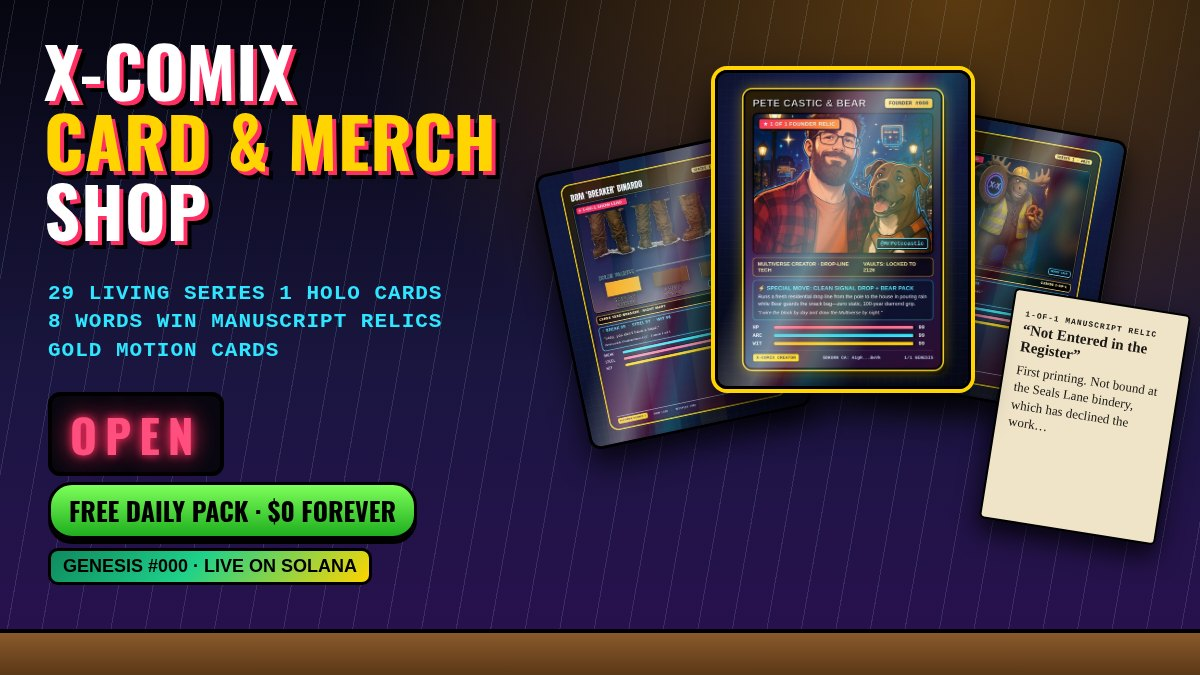
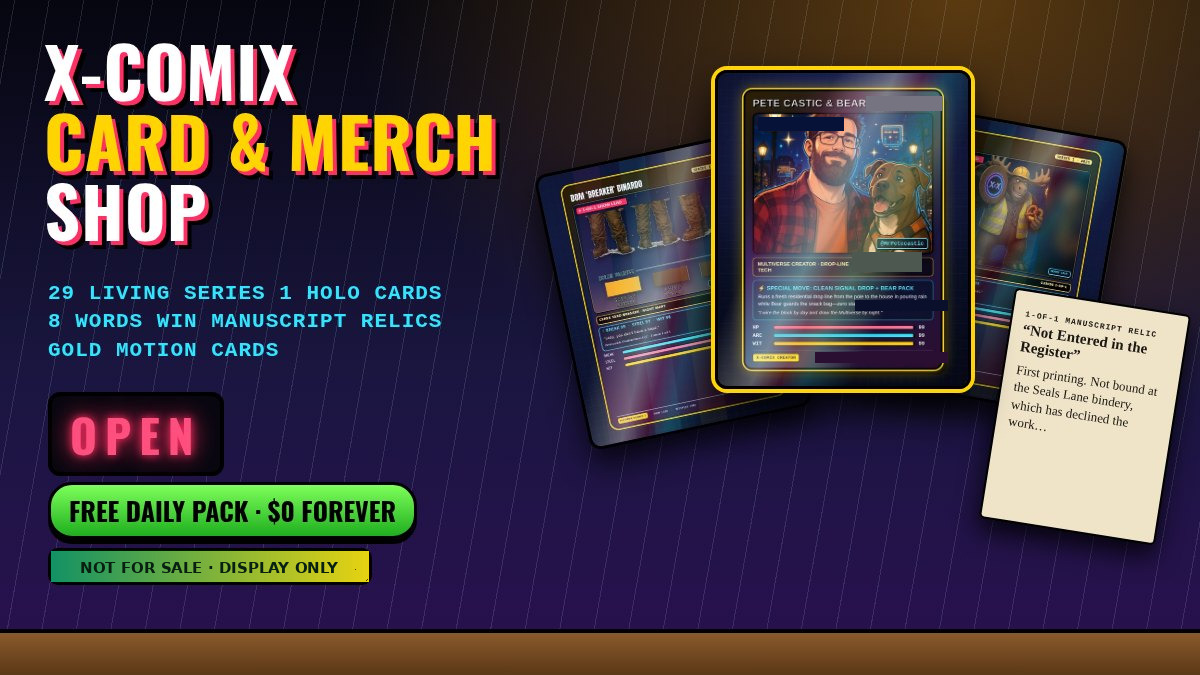
Show Pete & Bear and Founder #000 as display-only art.
Both portraits stay visible to everyone. The holder gate, Demo Preview blur, mint link, wishlist, and edition lines are gone, and each one is labeled not for sale.

diff --git a/shop/backroom.js b/shop/backroom.js
@@ -1,7 +1,7 @@
 /* X-Comix Crew Backroom — /shop/ add-on
    Petecastic Productions LLC · READ-ONLY BY DESIGN
-   - Crew poster, dossier, sky shimmer, and lore poll are open to everyone.
-   - The Founder #000 poster keeps the original holder gate: $DKORN, Founder #000, or $UFD, plus Demo Preview.
+   - Crew poster, Founder #000 poster, dossier, sky shimmer, and lore poll are open to everyone.
+   - The Founder #000 poster and the Pete & Bear portrait are display-only art.
    - Never builds, signs, or sends a transaction. Never asks for a seed phrase or private key.
    - An optional check reads a PUBLIC address and asks public Solana RPC for balances.
    - Optional free signMessage (plain text, not a transaction) for the Lore Poll vote proof.
@@ -11,11 +11,9 @@
 (function () {
 'use strict';
 var DKORN = 'A1gRAicaLnYRmKQwRbQCaEEp6iYfu5q5X5gTFAPBeVk';       // Token-2022 (verified on-chain 2026-11-06)
-var FOUNDER = '2gMmnUrxeRkZLA47NyKSGBs1aPFVSfEWruwyTKo7UUyH';     // Token-2022 1-of-1
 var UFD = 'eL5fUxj2J4CiQsmW85k5FG9DvuQjjUoBHoQBi2Kpump';          // classic SPL — Duster Herd Guest Pass
 var T22 = 'TokenzQdBNbLqP5VEhdkAS6EPFLC1PHnBqCXEpPxuEb';
 var TOKENKEG = 'TokenkegQfeZyiNwAJbNbGKPFXCWuBvf9Ss623VQ5DA';     // SPL Token program
-var XCOMIX_NFTS = [FOUNDER];                                       // add future X-Comix 1-of-1 mints here
 var CREATOR = '631dUrPhrXGXJJ38BQGubuCuj5s18HnpxssH8c1D8Q8C';
 var SALUTE = 'Independent community crossover salute by Petecastic Productions LLC for $UFD (eL5fUx…pump) holders — not affiliated with, sponsored, or endorsed by UFD Holdings LLC or @BasementRon. Free comic & art perks only; zero financial or price promises.';
 var SKY_LINE = '✨ Rainbow Stardust Sky Active — Good Attracts Good · Circuit 13 Salutes the Basement';
@@ -25,11 +23,8 @@ var INDEX_BLOCK = { 'https://solana-rpc.publicnode.com': 1, 'https://api.mainnet
 /* Permanent Irys/Arweave storage — uploaded Nov 6, 2026. gateway.irys.xyz serves now; arweave.net mirrors resolve once Irys seeds to Arweave. */
 var IRYS = 'https://gateway.irys.xyz/', AR = 'https://arweave.net/';
 var ARWEAVE = {
- card: { label: 'Founder #000 Card', id: 'FspqroSA4CeC5E9u4UVEZ4a96vZT9o9MCmgGxqnzr5FA', ar: '3QjAw6wuc9dri0AMcoQIsr-8egwX_M--G7k-q1c1iZ0' },
- pfp: { label: '1:1 PFP', id: 'JA7L7yr71HwUNJCubL95W7i1YZNgrPWR9933ovmPPw3Q', ar: '_uwP30E1VDsdk4KVyZShw-OpLRsymlb_mJOE4_YzILM' },
  sheet: { label: 'Turnaround Sheet', id: 'HVxic1sz2G8sqy9mxc7jXjKbiSBedborupmVKgDHwjws', ar: '9SZA0-0ANiSWA5Km1Tu5jrXKrCTZxxCSDHfyUPEqPgY' },
- logo: { label: '$DKORN Logo', id: '2xTVAk9GyqELyyopKmhgxS2Z7852F1opq4KT7GoCgaSq', ar: 'HRCUL5eqQ1zuUqXdlWmn7Oeq7Ylr2TpPapoYTQ0nLMY' },
- metadata: { label: 'Founder #000 Metadata JSON', id: 'E7usJT5d7djuQwvoWgU9BwHszXzGYdvCyQyJyEHDQZJu', ar: 'wu0xLRSKQ-136u0Ff88Q9LMdPZl-l6fmfzFRqYHuAyY' }
+ logo: { label: '$DKORN Logo', id: '2xTVAk9GyqELyyopKmhgxS2Z7852F1opq4KT7GoCgaSq', ar: 'HRCUL5eqQ1zuUqXdlWmn7Oeq7Ylr2TpPapoYTQ0nLMY' }
 };
 var LOCKS = [
  ['Vault 1 · 10-Year Book Saga Lock', 'ubsQ1M34RdLFwDgydiRRTctpvYKeYCF76weWk7QfUVa'],
@@ -100,24 +95,21 @@ function connect(name) {
 }
 function lookup(addr, via) {
   st.addr = addr; st.via = via; st.demo = false; st.loading = true; st.err = null; render();
-  return Promise.all([balanceOf(addr, DKORN, T22), balanceOf(addr, FOUNDER, T22), balanceOf(addr, UFD, TOKENKEG)])
+  return Promise.all([balanceOf(addr, DKORN, T22), balanceOf(addr, UFD, TOKENKEG)])
     .then(function (r) {
-      st.dkorn = r[0]; st.founder = r[1]; st.ufd = r[2];
-      st.nfts = XCOMIX_NFTS.filter(function (m) { return m === FOUNDER ? st.founder > 0 : false; });
+      st.dkorn = r[0]; st.founder = 0; st.ufd = r[1];
+      st.nfts = [];
       st.loading = false;
       try { localStorage.setItem('xcb-last', JSON.stringify({ addr: addr, via: via, at: Date.now() })); } catch (e) {}
       render();
     }).catch(function (e) { st.loading = false; st.err = e.message; render(); });
 }
-function isCircuit() { return (st.dkorn > 0) || (st.founder > 0) || st.nfts.length > 0; }
-function isHolder() { return st.demo || isCircuit() || (st.ufd > 0); }
-
 /* ---------- Lore poll: free signMessage (plain text, not a transaction) ---------- */
 function vote(opt) {
   var p = (providers()[0] || [])[1];
   var msg = 'X-Comix Lore Poll ' + POLL.id + '\nVote: ' + opt + '\nWallet: ' + st.addr + '\nTime: ' + new Date().toISOString() + '\nThis is a free signature. It is not a transaction and moves no funds.';
   var rec = { poll: POLL.id, vote: opt, addr: st.addr, msg: msg, sig: null };
-  if (!p || !p.signMessage || st.demo) { rec.sig = st.demo ? 'demo-preview' : 'unsigned (pasted address)'; save(rec); return; }
+  if (!p || !p.signMessage) { rec.sig = 'unsigned (pasted address)'; save(rec); return; }
   Promise.resolve(p.signMessage(new TextEncoder().encode(msg), 'utf8')).then(function (r) {
     var s = r && (r.signature || r); rec.sig = b58(s instanceof Uint8Array ? s : new Uint8Array(s)); save(rec);
   }).catch(function () { st.err = 'Vote signature cancelled — nothing was sent.'; render(); });
@@ -136,7 +128,7 @@ var CSS = '.xcb-ovl{position:fixed;inset:0;z-index:60;background:#05040ce6;displ
  '.xcb h2{margin:0 0 4px;color:#ffcc33;font-size:22px}.xcb h3{margin:16px 0 6px;color:#7ef3ff;font-size:16px}.xcb small,.xcb .m{color:#b8a9d9}' +
  '.xcb button,.xcb .b{background:#2a1f4a;color:#fff;border:1px solid #7ef3ff;border-radius:999px;padding:7px 13px;margin:3px;cursor:pointer;font:inherit;text-decoration:none;display:inline-block}' +
  '.xcb button.g{border-color:#ffcc33;color:#ffcc33}.xcb input{background:#0b0816;color:#fff;border:1px solid #6a5aa8;border-radius:8px;padding:7px;width:min(100%,380px);font:inherit}' +
- '.xcb .x{position:absolute;top:8px;right:10px}.xcb .card{background:#1b1433;border-radius:12px;padding:10px 12px;margin:8px 0}.xcb .lock{filter:blur(3px);pointer-events:none;user-select:none}' +
+ '.xcb .x{position:absolute;top:8px;right:10px}.xcb .card{background:#1b1433;border-radius:12px;padding:10px 12px;margin:8px 0}' +
  '.xcb .err{color:#ff8a8a}.xcb .ok{color:#8affc1}.xcb ul{margin:4px 0;padding-left:18px}' +
  '.xcb .badge{display:block;margin:8px 0 4px;padding:8px 10px;border-radius:10px;border:2px solid #000;font-weight:800;letter-spacing:.2px;line-height:1.3}' +
  '.xcb .badge.guest{background:linear-gradient(115deg,#ffe6fb,#e7fff4 38%,#d9ecff 68%,#fff3c4);color:#24143a}' +
@@ -158,7 +150,6 @@ function onClick(e) {
   if (a === 'close') close();
   else if (a === 'connect') connect(t.getAttribute('data-w'));
   else if (a === 'paste') { var v = ($('#xcbAddr').value || '').trim(); if (isAddr(v)) lookup(v, 'Pasted public address (read-only)'); else { st.err = 'That is not a Solana public address. NEVER paste a seed phrase anywhere.'; render(); } }
-  else if (a === 'demo') { st.demo = !st.demo; render(); }
   else if (a === 'sky') { st.sky = !st.sky; render(); }
   else if (a === 'vote') vote(t.getAttribute('data-o'));
   else if (a === 'forget') { st = { addr: null, via: null, dkorn: null, founder: null, ufd: null, nfts: [], demo: false, sky: false, err: null, loading: false }; try { localStorage.removeItem('xcb-last'); } catch (x) {} render(); }
@@ -194,29 +185,10 @@ function ensureSky() {
 function render() {
   var box = $('#xcbBox'); if (!box) return;
   var h = '<button class="x" data-a="close" aria-label="Close">✕</button><h2>Crew Backroom</h2>' +
-    '<small>The crew poster, the Season 1 dossier, the sky shimmer, and the lore poll are open to everyone. The Founder #000 poster keeps its holder gate. The address check is optional and read-only. This page never asks you to sign a transaction, never moves funds, and never asks for a seed phrase.</small>';
-  h += '<div class="card"><b>1 · Show a public address</b><br>';
-  var pv = providers();
-  pv.forEach(function (p) { h += '<button data-a="connect" data-w="' + esc(p[0]) + '">🔌 Connect ' + esc(p[0]) + ' (Read-Only)</button>'; });
-  if (!pv.length) h += '<span class="m">No browser wallet detected. </span>';
-  h += '<br><input id="xcbAddr" placeholder="Paste any Solana public address (read-only)" autocomplete="off" spellcheck="false"> <button data-a="paste">Check</button>' +
-    ' <button data-a="demo" class="g">' + (st.demo ? '👁 Exit Demo Preview' : '👁 Demo Preview') + '</button>';
-  if (st.loading) h += '<div class="m">Reading public Solana mainnet ($DKORN, Founder #000, $UFD)…</div>';
-  if (st.err) h += '<div class="err">' + esc(st.err) + '</div>';
-  if (st.addr && !st.demo) {
-    var circuit = isCircuit(), herd = st.ufd > 0;
-    h += '<div class="' + (isHolder() ? 'ok' : 'm') + '">Address ' + esc(short(st.addr)) + ' via ' + esc(st.via) +
-      ' · $DKORN: <b>' + fmt(st.dkorn) + '</b> · Founder #000: <b>' + fmt(st.founder) + '</b> · $UFD: <b>' + fmt(st.ufd) + '</b>' +
-      (circuit ? ' · 🏆 Circuit 13' : '') + (isHolder() ? ' · ✅ Founder #000 poster unlocked' : ' · Not a holder yet — $DKORN, Founder #000, or $UFD unlocks the Founder #000 poster') + '</div>';
-    if (circuit && herd) h += '<div class="badge dual">⚡ DUAL ALLIANCE: CIRCUIT 13 × DUSTER HERD</div><div class="m">$DKORN <b>' + fmt(st.dkorn) + '</b> · Founder #000 <b>' + fmt(st.founder) + '</b> · $UFD <b>' + fmt(st.ufd) + '</b></div>';
-    else if (herd) h += '<div class="badge guest">✨ DUSTER HERD GUEST PASS · ' + fmt(st.ufd) + ' $UFD</div>';
-    h += ' <button data-a="forget">Forget</button>';
-  }
-  if (st.demo) h += '<div class="m">Demo Preview: showing the backroom as a holder would see it. No wallet read. Rainbow Stardust Sky can be toggled here.</div>';
-  h += '</div>';
-  var founderLock = isHolder() ? '' : ' lock';
-  h += '<div class="card' + founderLock + '"><h3>🖼 Founder #000 Poster</h3>' +
-    link(BASE + 'assets/backroom/poster-founder-000.png', 'Founder #000 Poster') + '</div>';
+    '<small>The posters, the Season 1 dossier, the sky shimmer, and the lore poll are open to everyone. This page never asks you to sign a transaction, never moves funds, and never asks for a seed phrase.</small>';
+  h += '<div class="card"><h3>🖼 Founder #000 Poster</h3>' +
+    link(BASE + 'assets/backroom/poster-founder-000.png', 'Founder #000 Poster') +
+    '<div class="m">Not for sale. Display only.</div></div>';
   h += '<div class="card"><b>✨ Rainbow Stardust Sky</b><br><span class="m">Switch the shimmer off or on. It does not catch clicks.</span><br>' +
     '<button data-a="sky" class="g" aria-pressed="' + (st.sky ? 'true' : 'false') + '">' + (st.sky ? '✨ Rainbow Stardust Sky: ON' : '✨ Rainbow Stardust Sky: OFF') + '</button>';
   if (st.sky) h += '<div class="skyline">' + SKY_LINE + '</div>';
@@ -234,25 +206,20 @@ function render() {
   h += '</div>';
   h += '<div class="card"><h3>⛓ On-Chain Vault &amp; Permanent Arweave Proof</h3><ul>';
   LOCKS.forEach(function (l) { h += '<li>' + esc(l[0]) + ' — ' + link('https://solscan.io/account/' + l[1], 'Solscan') + '</li>'; });
-  h += '</ul>Founder #000: ' + link('https://solscan.io/token/' + FOUNDER, 'Solscan mint') +
-    '<br><b>Permanent Irys / Arweave storage</b> <span class="m">(paid once, stored permanently)</span><ul>' +
+  h += '</ul><b>Display files</b><ul>' +
     Object.keys(ARWEAVE).map(function (k) { var a = ARWEAVE[k]; return '<li>' + esc(a.label) + ' — ' + link(IRYS + a.id, 'Irys gateway') + link(AR + a.ar, 'arweave.net mirror') + '</li>'; }).join('') + '</ul>' +
     '<br>$UFD: ' + link('https://solscan.io/token/' + UFD, 'Solscan') + ' <span class="m">Duster Herd Guest Pass · classic SPL Token</span>' +
     '<br>$DKORN: ' + link('https://solscan.io/token/' + DKORN, 'Solscan') + ' <span class="m">Creator wallet ' + esc(short(CREATOR)) + '</span></div>';
   box.innerHTML = h;
   syncSky();
 }
-function open() { ensure().classList.add('show'); document.body.style.overflow = 'hidden'; render();
-  if (!st.addr) { try { var l = JSON.parse(localStorage.getItem('xcb-last')); if (l && isAddr(l.addr)) lookup(l.addr, l.via); } catch (e) {} }
-  var p = (providers()[0] || [])[1];                                   // silent reconnect only if user already trusted this site
-  if (!st.addr && p && p.connect) { try { Promise.resolve(p.connect({ onlyIfTrusted: true })).then(function (r) { var a = pkOf(p, r); if (isAddr(a)) lookup(a, providers()[0][0]); }).catch(function () {}); } catch (e) {} }
-}
+function open() { ensure().classList.add('show'); document.body.style.overflow = 'hidden'; render(); }
 function close() { var o = $('#xcbOv'); if (o) o.classList.remove('show'); document.body.style.overflow = ''; }
 function mountButton(sel) {
   var host = document.querySelector(sel || '.tbtns'); if (!host || $('#xcbBtn')) return;
   var b = document.createElement('button'); b.className = 'pill gold'; b.id = 'xcbBtn'; b.type = 'button'; b.textContent = '✨ Crew Backroom';
   b.onclick = open; host.insertBefore(b, host.children[1] || null);
 }
-window.XCBACKROOM = { open: open, close: close, lookup: lookup, mountButton: mountButton, state: function () { return st; }, setSky: function (on) { st.sky = !!on; syncSky(); render(); }, MINTS: { DKORN: DKORN, FOUNDER: FOUNDER, UFD: UFD, T22: T22, TOKENKEG: TOKENKEG }, SALUTE: SALUTE, ARWEAVE: ARWEAVE };
+window.XCBACKROOM = { open: open, close: close, lookup: lookup, mountButton: mountButton, state: function () { return st; }, setSky: function (on) { st.sky = !!on; syncSky(); render(); }, MINTS: { DKORN: DKORN, UFD: UFD, T22: T22, TOKENKEG: TOKENKEG }, SALUTE: SALUTE, ARWEAVE: ARWEAVE };
 if (document.readyState === 'loading') document.addEventListener('DOMContentLoaded', function () { mountButton(); }); else mountButton();
 })();

diff --git a/shop/shop.js b/shop/shop.js
@@ -104,7 +104,7 @@ function toggleAmb(btn){
 }
 
 /* ---------------- Shelf 1: Series 1 holo cards ---------------- */
-var FILTERS=[['all','All 29'],['genesis','Minted Genesis (#000)'],['night','Night Shift'],['action','Action / Sci-Fi'],['critters','Critters & Dogs'],['mystery','Mystery & Lore'],['comedy','Comedy & Slice-of-Life'],['wish','★ My Wishlist']];
+var FILTERS=[['all','All 29'],['night','Night Shift'],['action','Action / Sci-Fi'],['critters','Critters & Dogs'],['mystery','Mystery & Lore'],['comedy','Comedy & Slice-of-Life'],['wish','★ My Wishlist']];
 var FIL='all',Q='';
 function wish(){return ls('xcs-wish')||[]}
 function isWish(n){return wish().indexOf(n)>=0}
@@ -116,13 +116,18 @@ function cardFace(c,big){
    '<div class="face back"><div class="bimg"><img src="'+c.back+'" alt="'+esc(c.name)+' character sheet" loading="lazy"></div>'+
     '<div class="bname">'+esc(c.name)+'<small>'+esc(c.show)+'</small></div>'+
     '<div class="stats">'+c.stats.map(function(s){return '<div class="st"><span>'+esc(s[0])+'</span><i><b style="width:'+s[1]+'%"></b></i><span>'+s[1]+'</span></div>'}).join('')+'</div>'+
-    '<div class="bq">'+esc(c.quote)+'</div><div class="perks"><b>COLLECTOR PERKS</b>'+esc(PERKS)+'</div><div class="foil"></div><div class="wx"></div></div>'+
+    '<div class="bq">'+esc(c.quote)+'</div>'+(displayOnly(c)?'<div class="perks"><b>DISPLAY ONLY</b>Not for sale.</div>':'<div class="perks"><b>COLLECTOR PERKS</b>'+esc(PERKS)+'</div>')+'<div class="foil"></div><div class="wx"></div></div>'+
   '</div></div></div>';
 }
-function statusHTML(c){return c.minted?'<div class="status minted">LIVE MINTED ON SOLANA · GENESIS #000</div>':'<div class="status">SERIES 1 WAVE 1</div>'}
+function displayOnly(c){return c&&c.id==='pete-castic-bear'}
+function statusHTML(c){
+  if(displayOnly(c)) return '<div class="status">Not for sale. Display only.</div>';
+  return '<div class="status">SERIES 1 WAVE 1</div>';
+}
 function actsHTML(c){
+  var extra=displayOnly(c)?'':'<button class="ab star'+(isWish(c.n)?' on':'')+'" data-n="'+c.n+'">'+(isWish(c.n)?'★ Wishlisted':'☆ Wishlist')+'</button>';
   return '<div class="acts"><button class="ab flipbtn" data-n="'+c.n+'">Flip Card ↻</button><button class="ab insbtn" data-n="'+c.n+'">🔍 Inspect</button>'+
-   (c.minted?'<a class="ab sol" href="'+SOLSCAN+c.mint+'" target="_blank" rel="noopener">View on Solscan ↗</a>':'<button class="ab star'+(isWish(c.n)?' on':'')+'" data-n="'+c.n+'">'+(isWish(c.n)?'★ Wishlisted':'☆ Wishlist')+'</button>')+
+   extra+
    '<a class="ab" href="'+shareURL(c)+'" target="_blank" rel="noopener">𝕏 Share</a></div>';
 }
 function renderFilters(){var f=$('#fpills');f.innerHTML=FILTERS.map(function(x){return '<button data-f="'+x[0]+'" class="'+(x[0]===FIL?'on ':'')+(x[0]==='genesis'?'gen':'')+'">'+esc(x[1])+'</button>'}).join('');}
@@ -163,19 +168,22 @@ document.addEventListener('keydown',function(e){
 var CUR=0,NFT=false;
 function openIns(n){
   CUR=n;var c=D.cards[n],b=$('#insBox');
+  if(displayOnly(c)) NFT=false;
   b.className='ovbox ins'+(NFT?' nft':'');
+  var ownBtn=displayOnly(c)?'':'<button class="ab star'+(isWish(c.n)?' on':'')+'" data-n="'+c.n+'">'+(isWish(c.n)?'★ Wishlisted':'☆ Wishlist on My Device')+'</button>';
+  var nftTog=displayOnly(c)?'':'<label class="tog"><input type="checkbox" id="nftTog"'+(NFT?' checked':'')+'><span>Standalone Living HTML NFT (<code>animation_url</code>) Preview</span></label>';
   b.innerHTML='<button class="x" aria-label="Close">✕</button>'+
-   '<div class="stage"><div class="nftframe"><div class="nfthead"><i></i> Living card preview · animation_url</div></div><div class="slotbig">'+cardFace(c,true)+'</div><div class="nftframe nftfoot">This is how the standalone living HTML card would render: it reads the same public Creator\u2019s Sky file every copy reads, so every copy of #'+c.num+' shares one sky together. Display only. Nothing to sign.<code>animation_url → '+SITE+'?card='+c.num+'&amp;living=1</code></div></div>'+
+   '<div class="stage"><div class="nftframe"><div class="nfthead"><i></i> Living card preview · animation_url</div></div><div class="slotbig">'+cardFace(c,true)+'</div><div class="nftframe nftfoot">'+(displayOnly(c)?'Not for sale. Display only. The portrait can show the public Creator\u2019s Sky. Nothing to sign.':('This is how the standalone living HTML card would render: it reads the same public Creator\u2019s Sky file every copy reads, so every copy of #'+c.num+' shares one sky together. Display only. Nothing to sign.<code>animation_url → '+SITE+'?card='+c.num+'&amp;living=1</code>'))+'</div></div>'+
    '<div class="side"><h3>#'+c.num+' '+esc(c.name)+'</h3><div class="ttl">'+esc(c.title)+'</div>'+statusHTML(c)+
    '<div class="q">'+esc(c.quote)+'</div><div class="meta">Show: <b>'+esc(c.show)+'</b> · Category: '+esc(c.cat)+'<br>'+c.stats.map(function(s){return esc(s[0])+' '+s[1]}).join(' / ')+'</div>'+
-   '<div class="perk">🎬 Collector Perks: '+esc(PERKS)+'</div>'+
-   '<label class="tog"><input type="checkbox" id="nftTog"'+(NFT?' checked':'')+'><span>Standalone Living HTML NFT (<code>animation_url</code>) Preview</span></label>'+
-   '<div class="row"><button class="ab flipbtn" data-n="'+c.n+'">Flip Card ↻</button>'+(c.minted?'<a class="ab sol" href="'+SOLSCAN+c.mint+'" target="_blank" rel="noopener">View Genesis #000 on Solscan ↗</a>':'<button class="ab star'+(isWish(c.n)?' on':'')+'" data-n="'+c.n+'">'+(isWish(c.n)?'★ Wishlisted':'☆ Wishlist on My Device')+'</button>')+'<a class="ab" href="'+shareURL(c)+'" target="_blank" rel="noopener">𝕏 Share Card</a><button class="ab ambbtn">'+(amb&&amb.on?'🔊 Sky Ambience: ON':'🔈 Sky Ambience: OFF')+'</button></div>'+
+   (displayOnly(c)?'':'<div class="perk">🎬 Collector Perks: '+esc(PERKS)+'</div>')+
+   nftTog+
+   '<div class="row"><button class="ab flipbtn" data-n="'+c.n+'">Flip Card ↻</button>'+ownBtn+'<a class="ab" href="'+shareURL(c)+'" target="_blank" rel="noopener">𝕏 Share Card</a><button class="ab ambbtn">'+(amb&&amb.on?'🔊 Sky Ambience: ON':'🔈 Sky Ambience: OFF')+'</button></div>'+
    '<div class="meta">Sky right now: <b class="skynow"></b>. Try the sky pills: the card reacts live.</div>'+
    '<div class="nav2"><button class="ab" id="insPrev">◀ Prev</button><button class="ab" id="insNext">Next ▶</button></div></div>';
   var hs=$('.slotbig',b);hs.insertBefore($('.nftframe',b),hs.firstChild);
   $('#insOv').classList.add('show');document.body.style.overflow='hidden';apply();updNow();
-  $('#nftTog').onchange=function(e){NFT=e.target.checked;b.classList.toggle('nft',NFT)};
+  if($('#nftTog')) $('#nftTog').onchange=function(e){NFT=e.target.checked;b.classList.toggle('nft',NFT)};
   $('#insPrev').onclick=function(){openIns((CUR+28)%29)};$('#insNext').onclick=function(){openIns((CUR+1)%29)};
   $('.x',b).onclick=closeAll;
 }

diff --git a/arcade/dkorn-vip.js b/arcade/dkorn-vip.js
@@ -4,7 +4,6 @@
 (function(){
 'use strict';
 var MINT='A1gRAicaLnYRmKQwRbQCaEEp6iYfu5q5X5gTFAPBeVk';
-var FOUNDER='2gMmnUrxeRkZLA47NyKSGBs1aPFVSfEWruwyTKo7UUyH';
 var UFD='eL5fUxj2J4CiQsmW85k5FG9DvuQjjUoBHoQBi2Kpump';
 var T22='TokenzQdBNbLqP5VEhdkAS6EPFLC1PHnBqCXEpPxuEb';
 var TOKENKEG='TokenkegQfeZyiNwAJbNbGKPFXCWuBvf9Ss623VQ5DA';
@@ -77,8 +76,8 @@ function byMint(owner,mint,programId){
   });
 }
 function holderBalances(owner){
-  return Promise.all([tokenBalance(owner,MINT,T22),tokenBalance(owner,FOUNDER,T22),tokenBalance(owner,UFD,TOKENKEG)])
-    .then(function(r){return {dkorn:r[0],founder:r[1],ufd:r[2]}});
+  return Promise.all([tokenBalance(owner,MINT,T22),tokenBalance(owner,UFD,TOKENKEG)])
+    .then(function(r){return {dkorn:r[0],founder:0,ufd:r[1]}});
 }
 
 /* ---- base58 + PDA (used only to compute a public token-account address; no keys involved) ---- */
@@ -126,21 +125,21 @@ function save(mode,address,balance){
 function tierHTML(s){
   if(!s||!s.verified)return '';
   if(s.mode==='serial')return '<div class="dkv-pass">🪖 VIP PASS ACTIVE <small>collector serial preview</small></div>';
-  var dk=Number(s.dkorn!=null?s.dkorn:(s.balance||0)),fd=Number(s.founder||0),uf=Number(s.ufd||0);
-  var circuit=dk>0||fd>0,herd=uf>0,head,sub,cls='';
-  if(circuit&&herd){head='⚡ DUAL ALLIANCE: CIRCUIT 13 × DUSTER HERD';sub='$DKORN '+fmt(dk)+' · Founder #000 '+fmt(fd)+' · $UFD '+fmt(uf);cls=' dual'}
+  var dk=Number(s.dkorn!=null?s.dkorn:(s.balance||0)),uf=Number(s.ufd||0);
+  var circuit=dk>0,herd=uf>0,head,sub,cls='';
+  if(circuit&&herd){head='⚡ DUAL ALLIANCE: CIRCUIT 13 × DUSTER HERD';sub='$DKORN '+fmt(dk)+' · $UFD '+fmt(uf);cls=' dual'}
   else if(herd){head='✨ DUSTER HERD GUEST PASS · '+fmt(uf)+' $UFD';sub=esc(short(s.address))+' · read-only public balance';cls=' herd'}
-  else{head='🪖 VIP PASS ACTIVE';sub=esc(short(s.address))+' · '+fmt(dk)+' $DKORN'+(fd>0?' · Founder #000 '+fmt(fd):'')+' (read-only)';}
+  else{head='🪖 VIP PASS ACTIVE';sub=esc(short(s.address))+' · '+fmt(dk)+' $DKORN (read-only)';}
   return '<div class="dkv-pass'+cls+'">'+head+'<small>'+sub+'</small></div>';
 }
 function msg(t,cls){var m=drawer&&drawer.querySelector('.dkv-msg');if(m){m.className='dkv-msg '+(cls||'');m.innerHTML=t}}
 function verifyAddress(addr,mode){
   addr=(addr||'').trim();
   if(!isAddr(addr)){msg('That doesn\'t look like a Solana public address (32–44 letters/numbers).','bad');return}
-  msg('Reading public balances ($DKORN, Founder #000, $UFD)… <span class="dkv-spin"></span>');
+  msg('Reading public balances ($DKORN, $UFD)… <span class="dkv-spin"></span>');
   holderBalances(addr).then(function(b){
-    if(b.dkorn>0||b.founder>0||b.ufd>0){save(mode,addr,b);msg('✔ Read-only check recorded for '+esc(short(addr))+'. Tokens never leave your wallet.','ok');render()}
-    else msg('No $DKORN, Founder #000, or $UFD found at '+esc(short(addr))+'. Every game stays fully playable.','warn');
+    if(b.dkorn>0||b.ufd>0){save(mode,addr,b);msg('✔ Read-only check recorded for '+esc(short(addr))+'. Tokens never leave your wallet.','ok');render()}
+    else msg('No $DKORN or $UFD found at '+esc(short(addr))+'. Every game stays fully playable.','warn');
   },function(e){msg(esc(e.message||e),'bad')});
 }
 function connectPhantom(){
@@ -191,6 +190,6 @@ function badge(el){
   el.innerHTML='';
 }
 window.DKVIP={open:open,close:close,badge:badge,status:get,isVip:function(){var s=get();return !!(s&&s.verified)},onChange:function(f){subs.push(f)},checkLock:checkLock,LOCKS:LOCKS,capsule:capsule,CLOCK_URL:CLOCK_URL,rpc:rpc,refresh:emit,
-  MINT:MINT,FOUNDER:FOUNDER,UFD:UFD,T22:T22,TOKENKEG:TOKENKEG,tokenBalance:tokenBalance,holderBalances:holderBalances,ESCROW:ESCROW,SERIAL:SERIAL,SALUTE:SALUTE};
+  MINT:MINT,UFD:UFD,T22:T22,TOKENKEG:TOKENKEG,tokenBalance:tokenBalance,holderBalances:holderBalances,ESCROW:ESCROW,SERIAL:SERIAL,SALUTE:SALUTE};
 if(document.readyState==='loading')document.addEventListener('DOMContentLoaded',emit);else emit();
 })();

diff --git a/shop/index.html b/shop/index.html
@@ -3,7 +3,7 @@
 <meta name="viewport" content="width=device-width,initial-scale=1,viewport-fit=cover">
 <title>X-Comix Card &amp; Merch Shop · Series 1 Living Holo Cards | X-COMIX Arcade</title>
 <meta name="theme-color" content="#0b0a18">
-<meta name="description" content="A 2000s comic-and-card shop at 3 AM: 29 flippable Series 1 Universe Showrunners holo cards (Genesis 000 live on Solana), 44 Words Win manuscript, X article, @MrPetecastic story &amp; recipe relics, gold motion cards, a free daily pack counter and print-on-demand gear (coming soon). Every card shares one live Creator's Sky.">
+<meta name="description" content="A 2000s comic-and-card shop at 3 AM: 29 flippable Series 1 Universe Showrunners holo cards, 44 Words Win manuscript, X article, @MrPetecastic story &amp; recipe relics, gold motion cards, a free daily pack counter and print-on-demand gear (coming soon). Every card shares one live Creator's Sky.">
 <meta name="twitter:site" content="@mrpetecastic">
 <meta name="twitter:card" content="summary_large_image">
 <meta name="twitter:title" content="X-Comix Card &amp; Merch Shop · Series 1 Living Holo Cards">

diff --git a/shop/embed.html b/shop/embed.html
@@ -3,7 +3,7 @@
 <meta name="viewport" content="width=device-width,initial-scale=1,viewport-fit=cover">
 <title>X-Comix Card &amp; Merch Shop · Series 1 Living Holo Cards | X-COMIX Arcade</title>
 <meta name="theme-color" content="#0b0a18">
-<meta name="description" content="A 2000s comic-and-card shop at 3 AM: 29 flippable Series 1 Universe Showrunners holo cards (Genesis 000 live on Solana), 44 Words Win manuscript, X article, @MrPetecastic story &amp; recipe relics, gold motion cards, a free daily pack counter and print-on-demand gear (coming soon). Every card shares one live Creator's Sky.">
+<meta name="description" content="A 2000s comic-and-card shop at 3 AM: 29 flippable Series 1 Universe Showrunners holo cards, 44 Words Win manuscript, X article, @MrPetecastic story &amp; recipe relics, gold motion cards, a free daily pack counter and print-on-demand gear (coming soon). Every card shares one live Creator's Sky.">
 <meta name="twitter:site" content="@mrpetecastic">
 <meta name="twitter:card" content="player">
 <meta name="twitter:title" content="X-Comix Card &amp; Merch Shop · Series 1 Living Holo Cards">

diff --git a/shop/data.js b/shop/data.js
@@ -8,8 +8,8 @@ window.SHOP={
 "id": "pete-castic-bear",
 "name": "Pete Castic & Bear",
 "title": "MULTIVERSE CREATOR · DROP-LINE TECH",
-"show": "Founder 000",
-"cat": "Genesis",
+"show": "Shop window",
+"cat": "Display",
 "front": "assets/fronts/000_pete-castic-bear.jpg",
 "back": "assets/backs/000_pete-castic-bear_back.jpg",
 "stats": [
@@ -27,11 +27,9 @@ window.SHOP={
 ]
 ],
 "quote": "\"I wire the block by day and draw the Multiverse by night.\"",
-"minted": true,
-"mint": "2gMmnUrxeRkZLA47NyKSGBs1aPFVSfEWruwyTKo7UUyH",
-"groups": [
-"genesis"
-]
+"minted": false,
+"mint": null,
+"groups": []
 },
 {
 "n": 1,
